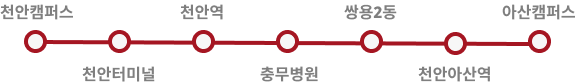
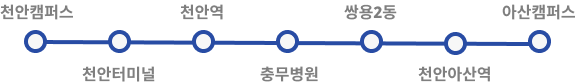
feat: 테마 변경에 따라 버스 노선 출력 이미지 변경

Changed region(s): [[0.0312, 0.3571, 0.9688, 0.6667]]

diff --git a/src/pages/BusRoute.jsx b/src/pages/BusRoute.jsx
@@ -1,8 +1,10 @@
-import styled from "styled-components";
+import styled, { useTheme } from "styled-components";
 import Header from "../components/Header";
 import { Link, useNavigate } from "react-router-dom";
 import shuttle from "../assets/images/shuttle.png";
 import shuttle_asan from "../assets/images/shuttle_asan.png";
+import shuttle_cheonan from "../assets/images/shuttle_cheonan.png";
+import shuttle_ktx from "../assets/images/shuttle_ktx.png";
 import shuttle_onyang from "../assets/images/shuttle_onyang.png";
 import num1000 from "../assets/images/1000.png";
 import sh5 from "../assets/images/sh5.png";
@@ -73,16 +75,22 @@ const Bus = styled.span.withConfig({
   margin-top: 4px;
   border-radius: 5px;
   color: white;
-  background-color: ${(props) =>
-    props.busName === "셔틀버스"
-      ? "#A51622"
-      : props.busName === "셔틀(아산)"
-      ? "#6782EA"
-      : props.busName === "1000번"
-      ? "#6782EA"
-      : props.busName === "순환5번"
-      ? "#ECAB56"
-      : "#66AF7C"};
+  background-color: ${(props) => {
+    const theme = props.theme;
+
+    if (props.busName === "셔틀버스") {
+      return theme.campus === "cheonan"
+        ? (props) => props.theme.primary
+        : "#A51622";
+    }
+
+    if (props.busName === "셔틀(아산)") return "#6782EA";
+    if (props.busName === "셔틀(KTX)") return "#6782EA";
+    if (props.busName === "1000번") return "#6782EA";
+    if (props.busName === "순환5번") return "#ECAB56";
+
+    return "#66AF7C";
+  }};
   font-size: 12px;
   font-weight: 900;
 `;
@@ -98,6 +106,7 @@ const RouteContainer = styled.div`
 `;
 
 const BusRoute = ({ setSelectedTheme }) => {
+  const theme = useTheme();
   const navigate = useNavigate();
 
   const handleBack = () => {
@@ -111,44 +120,57 @@ const BusRoute = ({ setSelectedTheme }) => {
         <h2>버스 노선 모아보기</h2>
         <Divider />
       </RouteHeader>
-      <RouteMain>
-        <Bus busName="셔틀버스">셔틀버스</Bus>
-        <RouteContainer>
-          <img src={shuttle} alt="" />
-        </RouteContainer>
-        <Bus busName="셔틀(아산)">셔틀(아산)</Bus>
-        <RouteContainer>
-          <img src={shuttle_asan} alt="" />
-        </RouteContainer>
-        <Bus busName="1000번">1000번</Bus>
-        <RouteContainer>
-          <img src={num1000} alt="" />
-        </RouteContainer>
-        <Bus busName="순환5번">순환5번</Bus>
-        <RouteContainer>
-          <img src={sh5} alt="" />
-        </RouteContainer>
-        <Bus busName="셔틀(온양)">셔틀(온양)</Bus>
-        <RouteContainer>
-          <img src={shuttle_onyang} alt="" />
-        </RouteContainer>
-        <Bus busName="810번">810번</Bus>
-        <RouteContainer>
-          <img src={num810} alt="" />
-        </RouteContainer>
-        <Bus busName="820번">820번</Bus>
-        <RouteContainer>
-          <img src={num820} alt="" />
-        </RouteContainer>
-        <Bus busName="821번">821번</Bus>
-        <RouteContainer>
-          <img src={num821} alt="" />
-        </RouteContainer>
-        <Bus busName="822번">822번</Bus>
-        <RouteContainer>
-          <img src={num822} alt="" />
-        </RouteContainer>
-      </RouteMain>
+      {theme.campus === "cheonan" ? (
+        <RouteMain>
+          <Bus busName="셔틀버스">셔틀버스</Bus>
+          <RouteContainer>
+            <img src={shuttle_cheonan} alt="" />
+          </RouteContainer>
+        </RouteMain>
+      ) : (
+        <RouteMain>
+          <Bus busName="셔틀버스">셔틀버스</Bus>
+          <RouteContainer>
+            <img src={shuttle} alt="" />
+          </RouteContainer>
+          <Bus busName="셔틀(아산)">셔틀(아산)</Bus>
+          <RouteContainer>
+            <img src={shuttle_asan} alt="" />
+          </RouteContainer>
+          <Bus busName="셔틀(아산)">셔틀(KTX)</Bus>
+          <RouteContainer>
+            <img src={shuttle_ktx} alt="" />
+          </RouteContainer>
+          <Bus busName="1000번">1000번</Bus>
+          <RouteContainer>
+            <img src={num1000} alt="" />
+          </RouteContainer>
+          <Bus busName="순환5번">순환5번</Bus>
+          <RouteContainer>
+            <img src={sh5} alt="" />
+          </RouteContainer>
+          <Bus busName="셔틀(온양)">셔틀(온양)</Bus>
+          <RouteContainer>
+            <img src={shuttle_onyang} alt="" />
+          </RouteContainer>
+          <Bus busName="810번">810번</Bus>
+          <RouteContainer>
+            <img src={num810} alt="" />
+          </RouteContainer>
+          <Bus busName="820번">820번</Bus>
+          <RouteContainer>
+            <img src={num820} alt="" />
+          </RouteContainer>
+          <Bus busName="821번">821번</Bus>
+          <RouteContainer>
+            <img src={num821} alt="" />
+          </RouteContainer>
+          <Bus busName="822번">822번</Bus>
+          <RouteContainer>
+            <img src={num822} alt="" />
+          </RouteContainer>
+        </RouteMain>
+      )}
     </BusRouteContainer>
   );
 };
